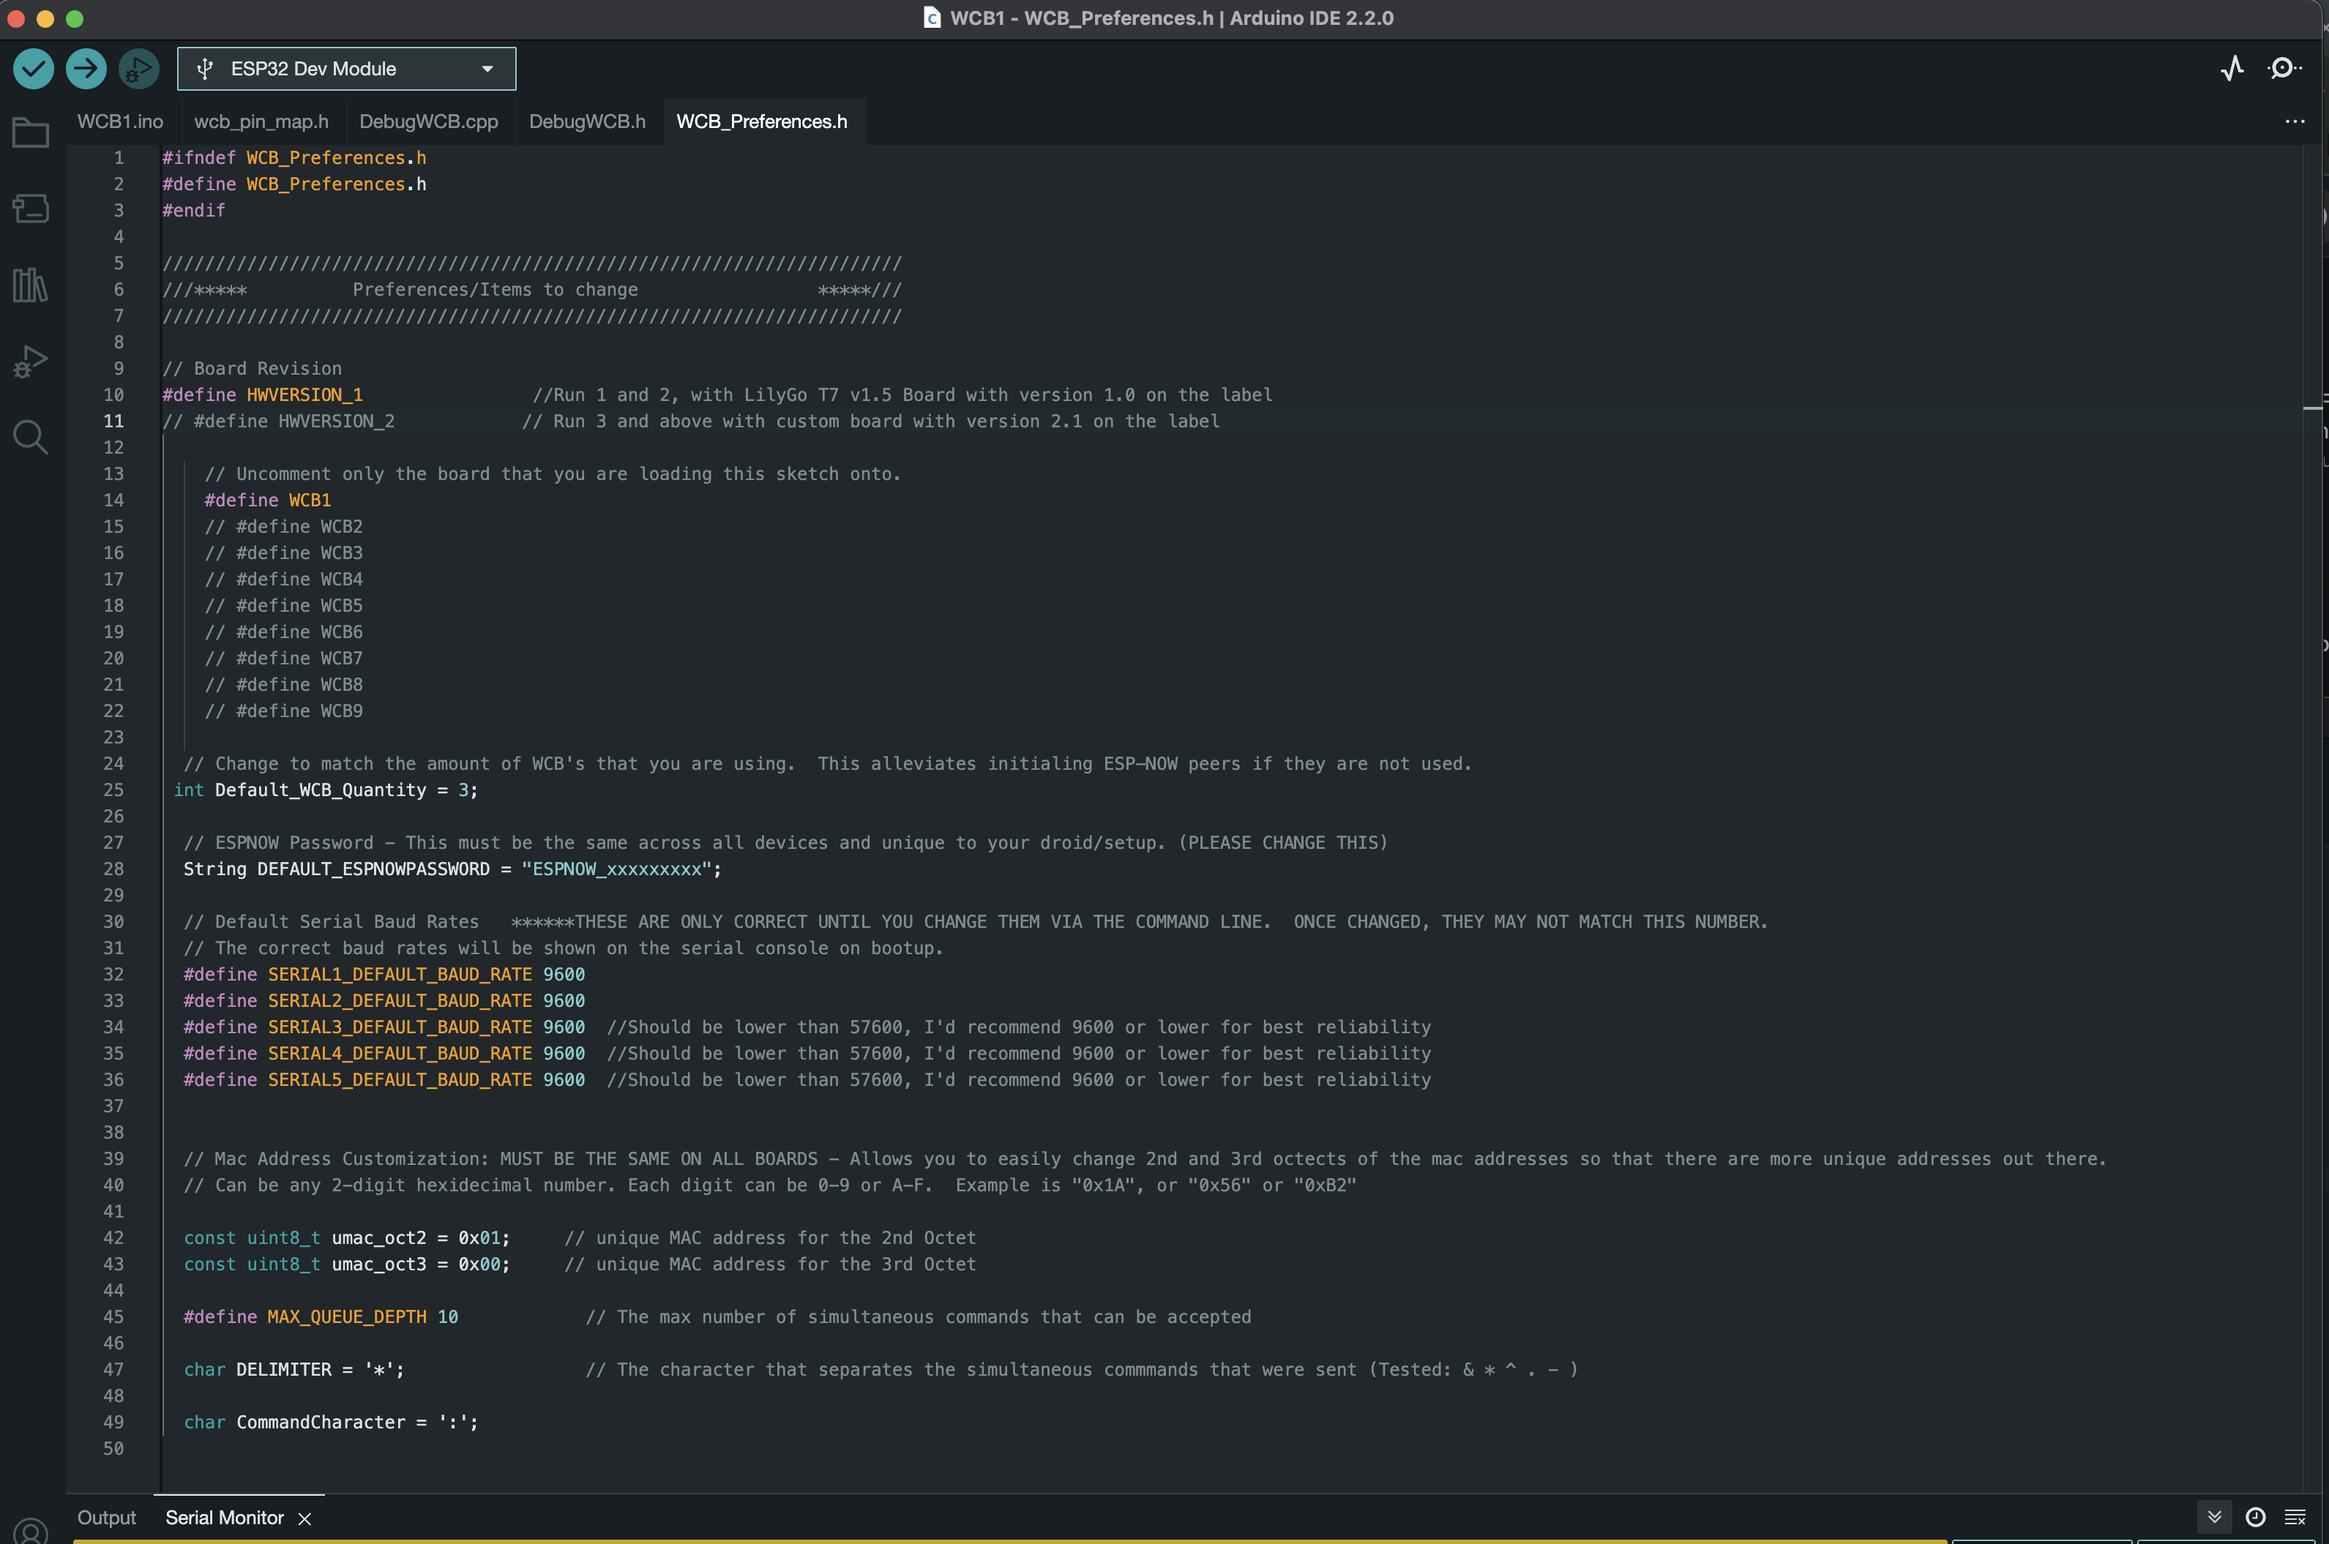
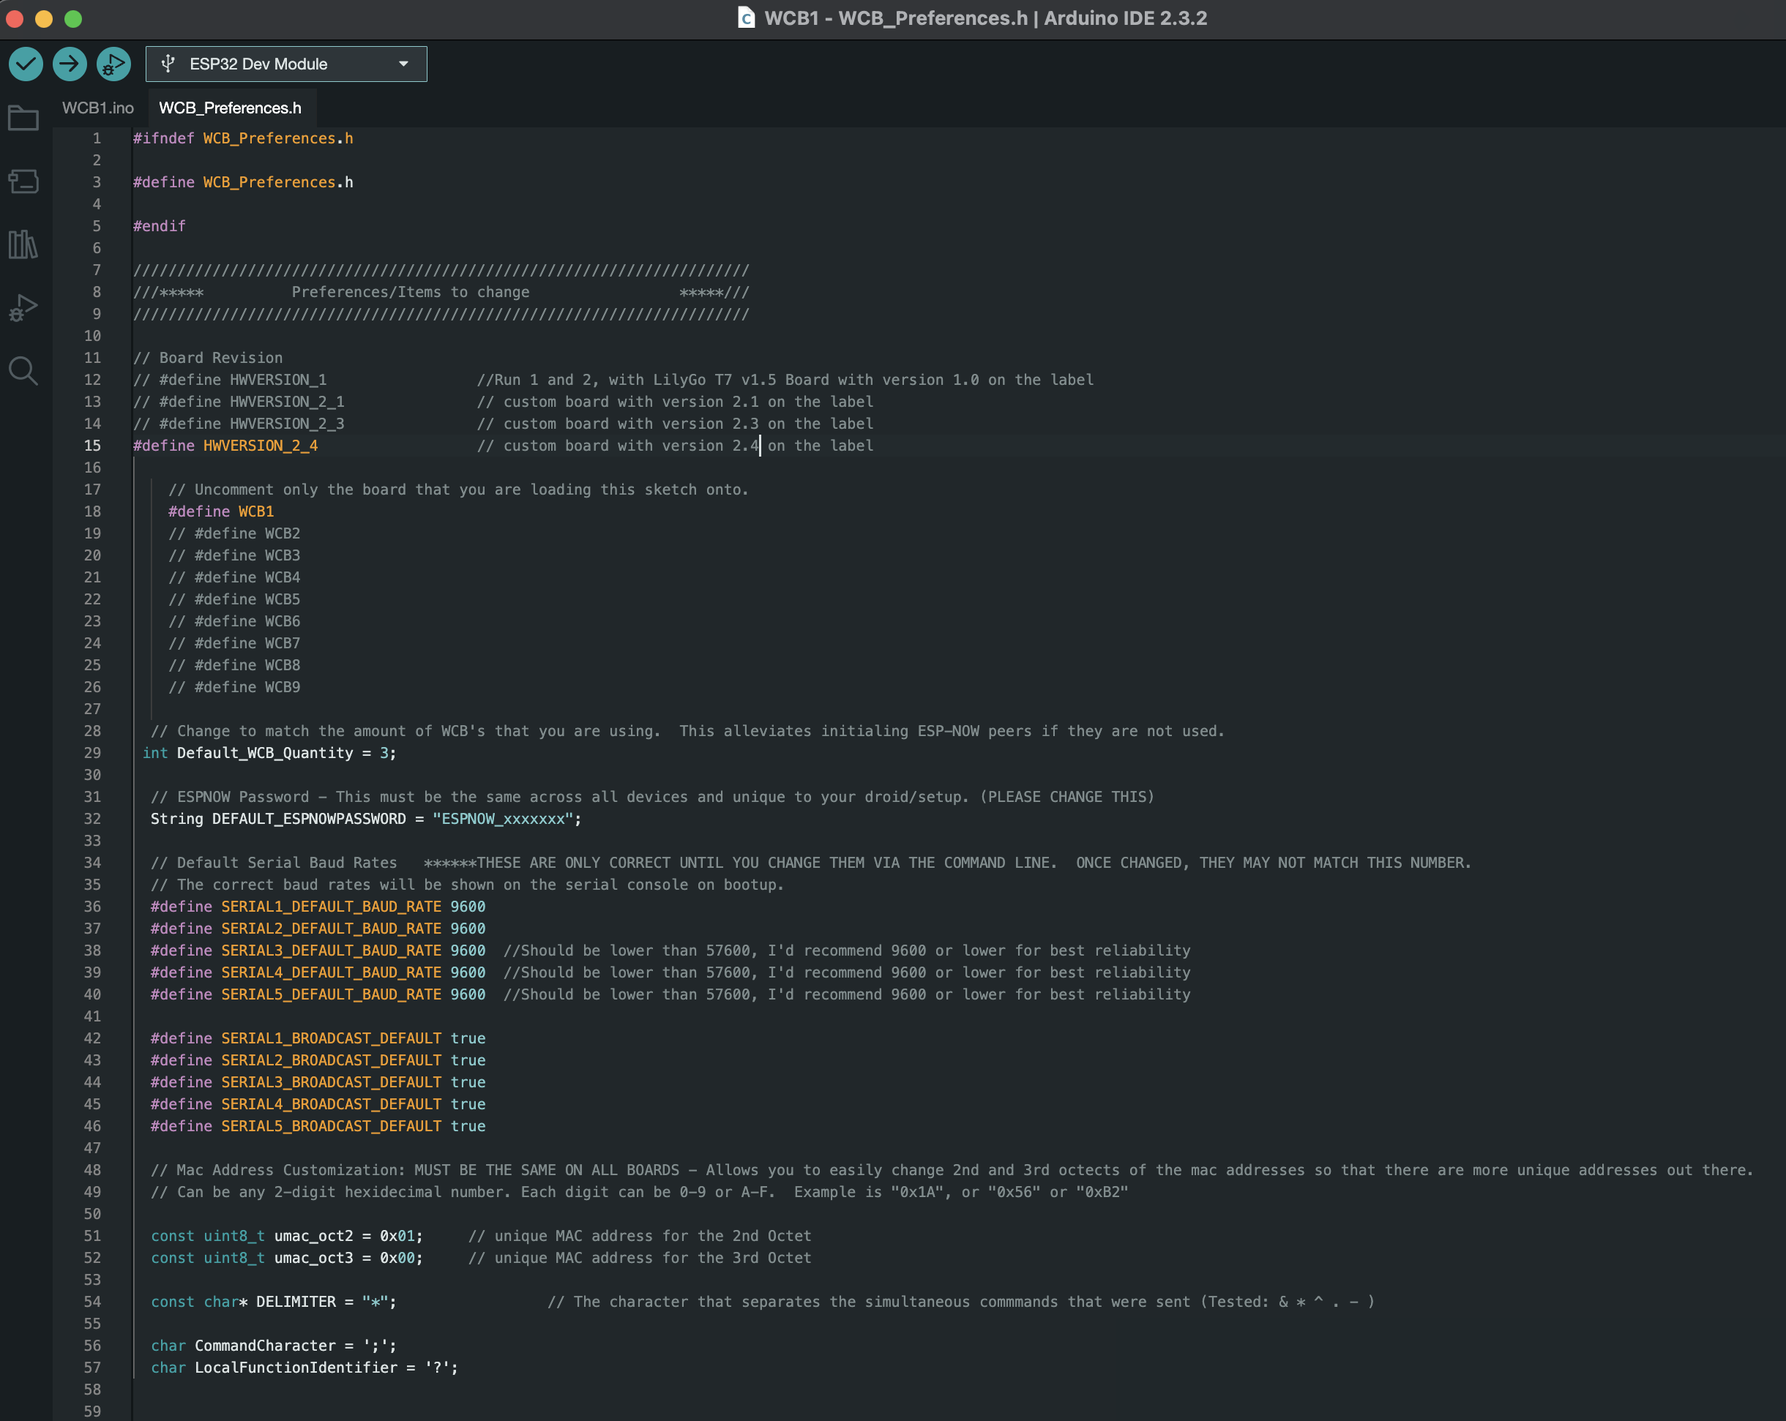
updated preference and updating readme

diff --git a/Code/WCB1/WCB_Preferences.h b/Code/WCB1/WCB_Preferences.h
@@ -12,7 +12,7 @@
 // #define HWVERSION_1                 //Run 1 and 2, with LilyGo T7 v1.5 Board with version 1.0 on the label
 // #define HWVERSION_2_1               // custom board with version 2.1 on the label
 // #define HWVERSION_2_3               // custom board with version 2.3 on the label
-#define HWVERSION_2_4                  // custom board with version 2.3 on the label
+#define HWVERSION_2_4                  // custom board with version 2.4 on the label
 
     // Uncomment only the board that you are loading this sketch onto. 
     #define WCB1 

diff --git a/Readme.md b/Readme.md
@@ -108,7 +108,7 @@ This was designed to allow the Kyber, and now the stealth to send updates to the
 
 ---
 ## Command Syntax
-I have broken the command structure down into 2 categories.  One of them is to control the board itself, and the other is to execute commands that transfer the data.  The local commands start with the "#" and the execution commands start with ":".  <br>
+I have broken the command structure down into 2 categories.  One of them is to control the board itself, and the other is to execute commands that transfer the data.  The local commands start with the "?" and the execution commands start with ";".  <br>
 
 
 <br>
@@ -117,27 +117,27 @@ The following lists out possible commands for local use.
 
  <br>
 
-    #L01        - Displays the local hostname.  Useful to identify which board you are looking at in the serial monitor
-    #L02        - Restarts the ESP32
-    #L05        - Displays ESP-NOW statistics
+    ?L01        - Displays the local hostname.  Useful to identify which board you are looking at in the serial monitor
+    ?L02        - Restarts the ESP32
+    ?L05        - Displays ESP-NOW statistics
 
-    #DESPNOW    - Toggles the ESPNOW debugging to allow you to debug ESPNOW related functions
-    #DSERIAL    - Toggles the serial debugging to allow you to debug serial related functions
-    #DLOOP      - Toggles the loop debugging to allow you to debug the main loop
-    #DON        - Enable all debugging
-    #DOFF       - Disables all debugging
+    ?DESPNOW    - Toggles the ESPNOW debugging to allow you to debug ESPNOW related functions
+    ?DSERIAL    - Toggles the serial debugging to allow you to debug serial related functions
+    ?DLOOP      - Toggles the loop debugging to allow you to debug the main loop
+    ?DON        - Enable all debugging
+    ?DOFF       - Disables all debugging
 
-    #S(x)(yyyy) - Allows you to change the baud rate of a serial port.  Persists after reboot.
+    ?S(x)(yyyy) - Allows you to change the baud rate of a serial port.  Persists after reboot.
         x: 1-5 : Serial port 1-5
         yyyy: any valid baud rate that the IDE can be set at.
             y: if you use only a single digit of a 0 or 1, you can disable or enable broadcast for a specific port.    
-    #SC   - Clears all stored baud rates and broadcast preferences.  Will revert to the values defined in the sketch preferences.
+    ?SC   - Clears all stored baud rates and broadcast preferences.  Will revert to the values defined in the sketch preferences.
 
-    #E(xxxx)  - Allows you to change the ESP-NOW password
-    #ECLEAR   - Clears the stored ESP-NOW password and reverts to the password defined in the sketch
+    ?E(xxxx)  - Allows you to change the ESP-NOW password
+    ?ECLEAR   - Clears the stored ESP-NOW password and reverts to the password defined in the sketch
 
-    #Q(y)     - Allows you to change the WCB quantity
-    #Q0        - Clears the stored WCB quantity and reverts to the value stored in the sketch.
+    ?Q(y)     - Allows you to change the WCB quantity
+    ?Q0        - Clears the stored WCB quantity and reverts to the value stored in the sketch.
 
 
 <br>
@@ -170,7 +170,7 @@ The following is the syntax for sending commands
 
 ### Broadcast Operations
 
-In order to broadcast messages, you simply leave off the ;Wx;Sx part of the command.  When the WCB receives a command that does not use the ;Wx or ;Sx, it knows to send it out to every serial port, besides the one it received the command on, and to every WCB.  The receiving WCBs will then forward it out all of it's serial ports. 
+In order to broadcast messages, you simply leave off the ;Wx;Sy part of the command.  When the WCB receives a command that does not use the ;Wx or ;Sx, it knows to send it out to every serial port, besides the one it received the command on, and to every WCB.  The receiving WCBs will then forward it out all of it's serial ports. 
  
 
 
@@ -180,11 +180,11 @@ You can chain commands together and have the WCB process those commands one afte
 
 Example:<br>
     
-    Unicast Style
+    Unicast:
 
     ;W3;S4:PP100*;W3;S2#SD0*;W3;S1:PDA180
 
-    Broadcast Style:
+    Broadcast:
 
     :PP100*#SD0*:PDA180
 
@@ -192,7 +192,6 @@ The command would take that string and break it into 3 different commands and pr
 1. ;W3;S4:PP100
 2. ;W3;S2#SD0
 3. ;W3;S1:PDA180
-4. 
 
 There can be a maximum of 10 chained commands by default, but this can be changed in the sketch in the WCB_Preferences.h tab.
 
@@ -204,13 +203,13 @@ I have tested the following characters (& * ^ . - ) but do not see why others wo
 <br>
 
 ## Stealth Users
-The Stealth users should note that the Stealth uses the character ":" to break up a string when it's executing a function with a string. Myself and many builders also use the ":" in their command syntax and this can cause a complication.  There is an easy solution that can be implemented on the Stealth to combat this.  All you will need to do is change the delimiter that it uses to break up its string.  Add this line towards the top of your config.txt file to accomplish this.
+The Stealth users should note that the Stealth uses the character ":" to break up a string when it's executing a function with a string. Many builders also use the ":" in their command syntax and this can cause a complication.  There is an easy solution that can be implemented on the Stealth to combat this.  All you will need to do is change the delimiter that it uses to break up its string.  Add this line towards the top of your config.txt file to accomplish this.
 
 <br>
 
-    auxdelim=;
+    auxdelim=!
 
-You can change the ";" to another character if that interferes with something in your system.
+You can change the "!" to another character if that interferes with something in your system.
 
 Other than that change, you can set up the Stealth's config.txt file to send out strings via the serial command like normal.  
 
@@ -246,22 +245,22 @@ This is a more comprehensive list of gestures and buttons as an example:
     g=45454,5,9
     g=65656,5,10
     g=25252,5,11
-    a=:W2:S1:PP100
-    a=:W2:S1:PH
-    a=:W2:S1:PS1
-    a=:W2:S1:PS2
-    a=:W2:S1:PS4
-    a=:W2:S2:SE00
-    a=:W2:S1:SE00
-    a=:W2:S1:SE01
-    a=:W2:S1:SE02
-    a=:W2:S1:SE03
-    a=:W2:S1:PS1
-    a=:S1:PS2
-    a=:S1:PS3
-    a=:S1:PDA0
-    a=:W3:S3:PDA0
-    a=:W3:S5:LM052
+    a=;W2;S1:PP100
+    a=;W2;S1:PH
+    a=;W2;S1:PS1
+    a=;W2;S1:PS2
+    a=;W2;S1:PS4
+    a=;W2;S2:SE00
+    a=;W2;S1:SE00
+    a=;W2;S1:SE01
+    a=:SE02
+    a=:W2;S1:SE03
+    a=:PS1
+    a=;S1:PS2
+    a=;S1:PS3
+    a=;S1:PDA0
+    a=;W3;S3:PDA0
+    a=;W3;S5:LM052
   
 
 In this example, button 3 would make the Stealth send the string ":W3:S3:PDA0" out it's serial port.  The WCB would accept that command and forward the string ":PDA0" out the WCB3's Serial 3 port. <br><br> <br><br> 
@@ -278,7 +277,7 @@ There are some things to change to the code before uploading to the WCB.   <br>
 1. Uncomment out the HW Version of board that you are using.  Only have 1 board uncommented at a time
 2. Uncomment out the WCB Number board that you are loading this sketch onto.  Only have 1 board uncommented at a time
 3. Serial Baud Rate of each of your serial ports.  This is only valid if you did not change
-    your baud rate from the command line.  Once it is changed via the command (#Sxyyyy), 
+    your baud rate from the command line.  Once it is changed via the command (?Sxyyyy), 
     the correct value is shown on bootup and the value in this code is no longer accurate.  
     The value stored in the ESP32 will persist even after you upload the code again and 
     changing this value will not affect the baud rate stored in the ESP32.
@@ -288,21 +287,29 @@ There are some things to change to the code before uploading to the WCB.   <br>
 2. Change the ESPNOW password. This should be unique to your droid and prevents others with the same system from sending your droid commands if they didn't change their password.  (There is a 40 character limit on the password)
 3. Change the umac_oct2 variable.  This represents the second octet of the MacAddress that the ESP-NOW protocol uses.  By changing this, you ensure that your WCB's will not communicate with other WCBs since they will not know each other's MAC address.  
 4. Change the umac_oct3 variable.  This represents the third octet of the MacAddress that the ESP-NOW protocol uses.  By changing this, you ensure that your WCB's will not communicate with other WCBs since they will not know each others MAC address. Adding this octet to the uniqueness of the MAC address give more chances that there will not be another droid with your same mac address. 
-5. Optionally change the max number of chained commands 
-6. Optionally change the delimiter to be the same across all boards 
-7. Optionally change the character that is used to designate a command.  By default, it is ":", but can be changed if that interferes with other boards.
+5. Optionally change the delimiter to be the same across all boards 
+6. Optionally change the character that is used to designate a command.  By default, it is ";", but can be changed if that interferes with other boards.
+7. Optionally change the character that is used to designate local commands.  By default it is "?", but can be changed if that interferes with other boards
 
 As the code specifies, Serial 3 Serial 5 should have a baud rate lower than 57600.  These serial ports are using software serial and are more reliable at the slower speeds.  I personally run he baud-rate of 9600 on them whenever I use them.  
 <br><br> 
 
 ## Loading the sketches onto the WCB
 
+### USB Driver: 
+If you don't see the WCB when you plug it into your computer, you may have to install the driver for the CP210x driver.  You can find it [here.](https://www.silabs.com/developers/usb-to-uart-bridge-vcp-drivers?tab=downloads)
+
+### Libraries to install:
+Adafruit Neo Pixel Library
+<br>SoftwareSerial.h by Dirk Kaar, Peter Lerup Library
+
+<br>
 <p>All the boards will come loaded with unique preferences as listed above to ensure you won't interfere with other users, but if you want to configure them for yourselves, please follow these steps to create your own set of files for your board with your own saved preferences. If you are adding more WCB's into your system at a later date, you can obtain all the necessary values to input into your code by watching your current WCBs boot up.</p> 
 <p> In the code folder, you will only see the WCB1 folder.  This is the starting point for all the other boards.  I could have put up 9 folders, but then you would have to change the preferences in all 9 files, and could create a problem if some items don't match exactly.  This method should avoid that problem.  </p>
 
 1. Download the Repository to your computer by selecting the pulldown arrow in the green "Code" button on the top of this page, then select "Download Zip".  
 2. Unzip the file
-3. Open Code Folder, then WCB1 Folder, then the WCB1.ino file. (Make sure there are 6 files in this folder)
+3. Open Code Folder, then WCB1 Folder, then the WCB1.ino file. (Make sure there are 2 files in this folder and the folder called "src")
 4. Edit the sketch preferences as mentioned above and save the file.
 5. Copy the WCB1 folder and rename it to WCB2, or WCB3, ...
 6. Rename the WCB1.ino file in the newly copied folder to match the folder number.
@@ -348,7 +355,7 @@ As the code specifies, Serial 3 Serial 5 should have a baud rate lower than 5760
 
 NOTE: If you are adding boards into your existing setup, you will need to change the quantity of boards in your existing WCBs.  You can do this by inputting the following command on all of your existing boards:
 
-        #Qx         //x should be a number between 1-9.
+        ?Qx         //x should be a number between 1-9.
 
   Once changed, you can reboot and verify that it is correct in the boot up message.
 
@@ -394,15 +401,15 @@ In the yellow boxes in the image above, you can see some examples.  Let's break 
 
 Here is the first example: 
 
-    :S5:S1:PS1
+    ;S5;S1:PS1
 
 In this example, WCB1 will receive the full command, act on the first serial section ":S5" and then forward everything else (:S1:PS1) onto its Serial 5 port.  Then WCB2 receives ":S1:PS1" and then processes the serial section, ":S1" and then forwards the rest of the command, (:PS1) out Serial 1.  In this instance towards the Uppity Spinner.  
 
 Here is the second example: 
 
-    :S5:S5:S2:F018
+    ;S5;S5;S2:F018
 
-In this example, WCB will receive the full command(:S5:S1:PS1), act on the first serial section, ":S5", and then forward everything else(:S5:S2:F018) onto its Serial 5 port.  Then WCB2 receives ":S5:S2:F018".  It then processes the first serial section that it received, ":S5" then forwards the rest of the command (:S2:F018) out it's serial 5 port.  Then WCB3 receives ":S2:F018", processes the first serial section that it received, ":S2", and forwards the rest of the command (:F018) out its serial 2 port.  Then the Flthy HP controller processes the ":F018" command.  
+In this example, WCB will receive the full command(;S5;S1:PS1), act on the first serial section, ";S5", and then forward everything else(;S5;S2:F018) onto its Serial 5 port.  Then WCB2 receives ";S5;S2:F018".  It then processes the first serial section that it received, ";S5" then forwards the rest of the command (;S2:F018) out it's serial 5 port.  Then WCB3 receives ";S2:F018", processes the first serial section that it received, ";S2", and forwards the rest of the command (:F018) out its serial 2 port.  Then the Flthy HP controller processes the ":F018" command.  
 
 You will have to have a better understanding of how things are connected in this arrangement, but this will work if you do not want to use wireless.  
 
@@ -433,9 +440,9 @@ Here is how the messages will look passing through this type of network.
 
 In the yellow boxes, you  an see the bottom box for examples on how to send the messages with this connection method.  
 
-    :S5:S3:S2:F0158
+    ;S5;S3;S2:F0158
 
-With this method, you can see that the first part of the command is ":S5" so the WCB1 can send it out it's serial 5 port, then you can see the ":S3".  This would send it to WCB3.  When WCB3 gets the last bit of the command, it processes the ":S2:F0158" and sends the command ":F0158" out its Serial 2 port. 
+With this method, you can see that the first part of the command is ";S5" so the WCB1 can send it out it's serial 5 port, then you can see the ";S3".  This would send it to WCB3.  When WCB3 gets the last bit of the command, it processes the ";S2:F0158" and sends the command ":F0158" out its Serial 2 port. 
 
 ## Wiring Example for Serial Only
  This is how you would connect the WCB in Serial only mode
@@ -449,7 +456,7 @@ You can extrapolate from there to connect the rest of the WCBs.
 
 Here are the dimensions for the boards.  With these dimensions, you can plan you setup or make a custom mount for your boards.
 
-V1.0      |    V2.1     
+V1.0      |    V2.1/2.3/2.4     
 :---------------:|:---------------------:
 <img src="./Images/DimensionsV1.0.png" style="width: 400px;"><br>|<img src="./Images/DimensionsV2.1.png" style="width:400px;">
  
